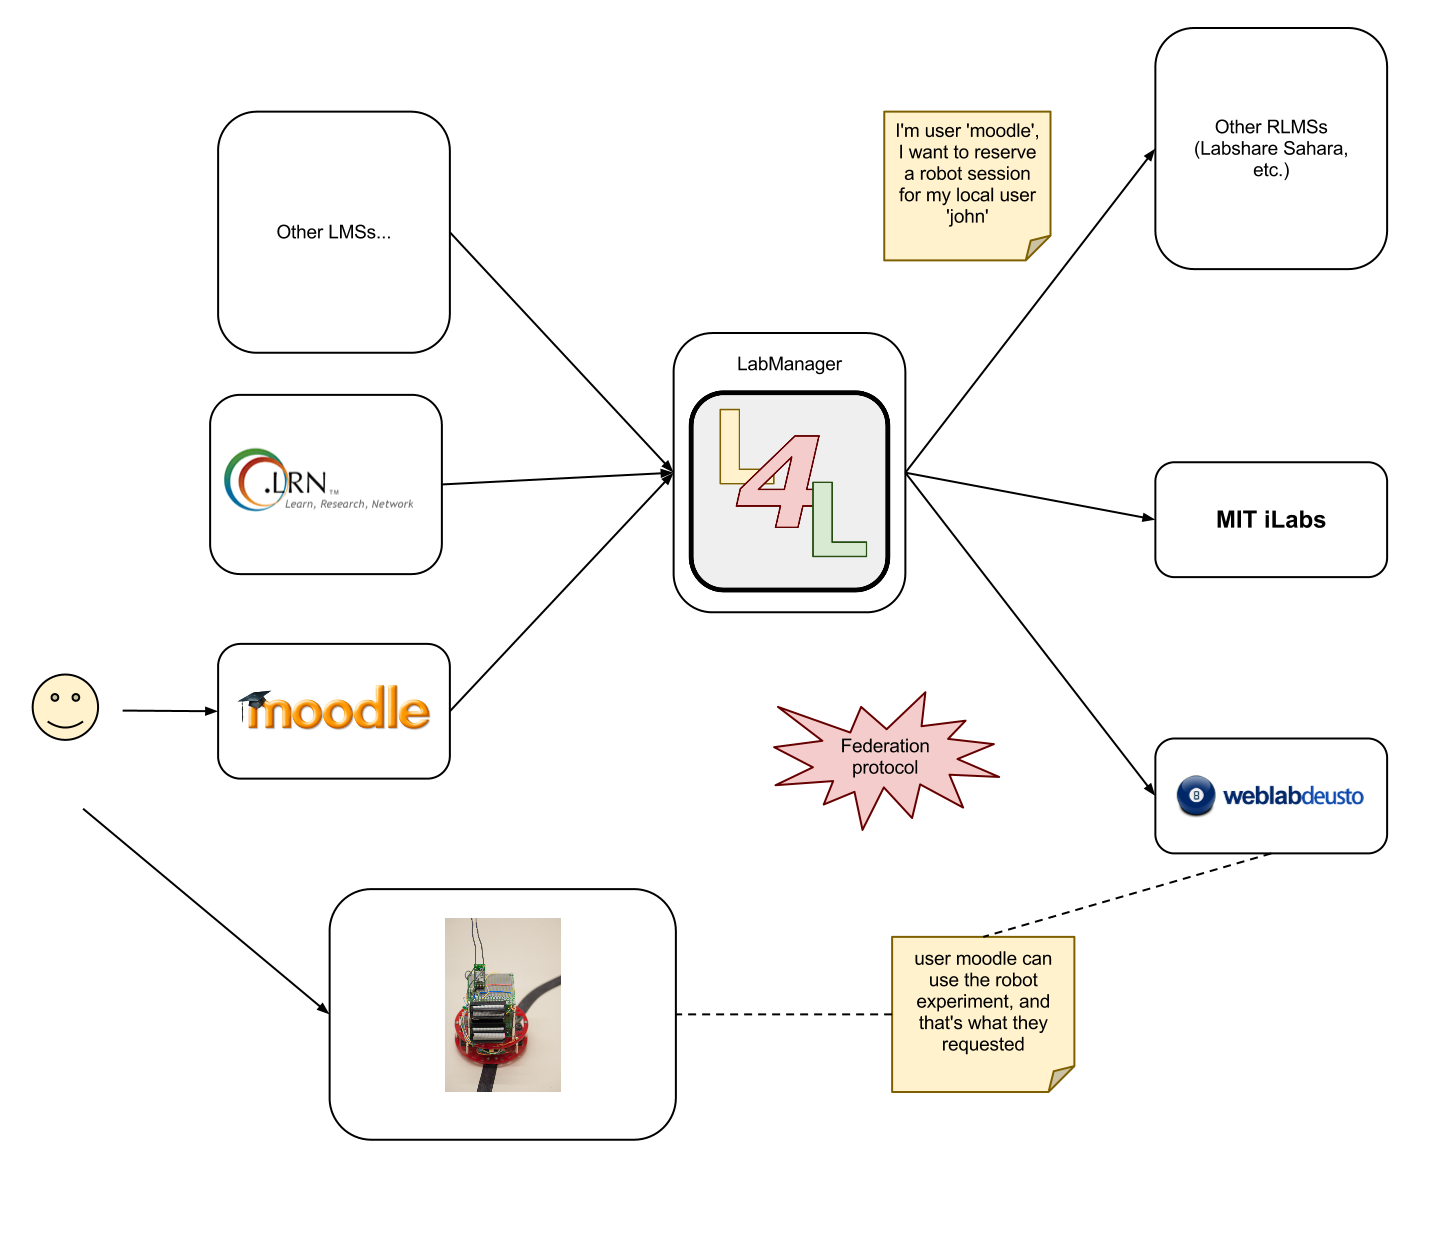
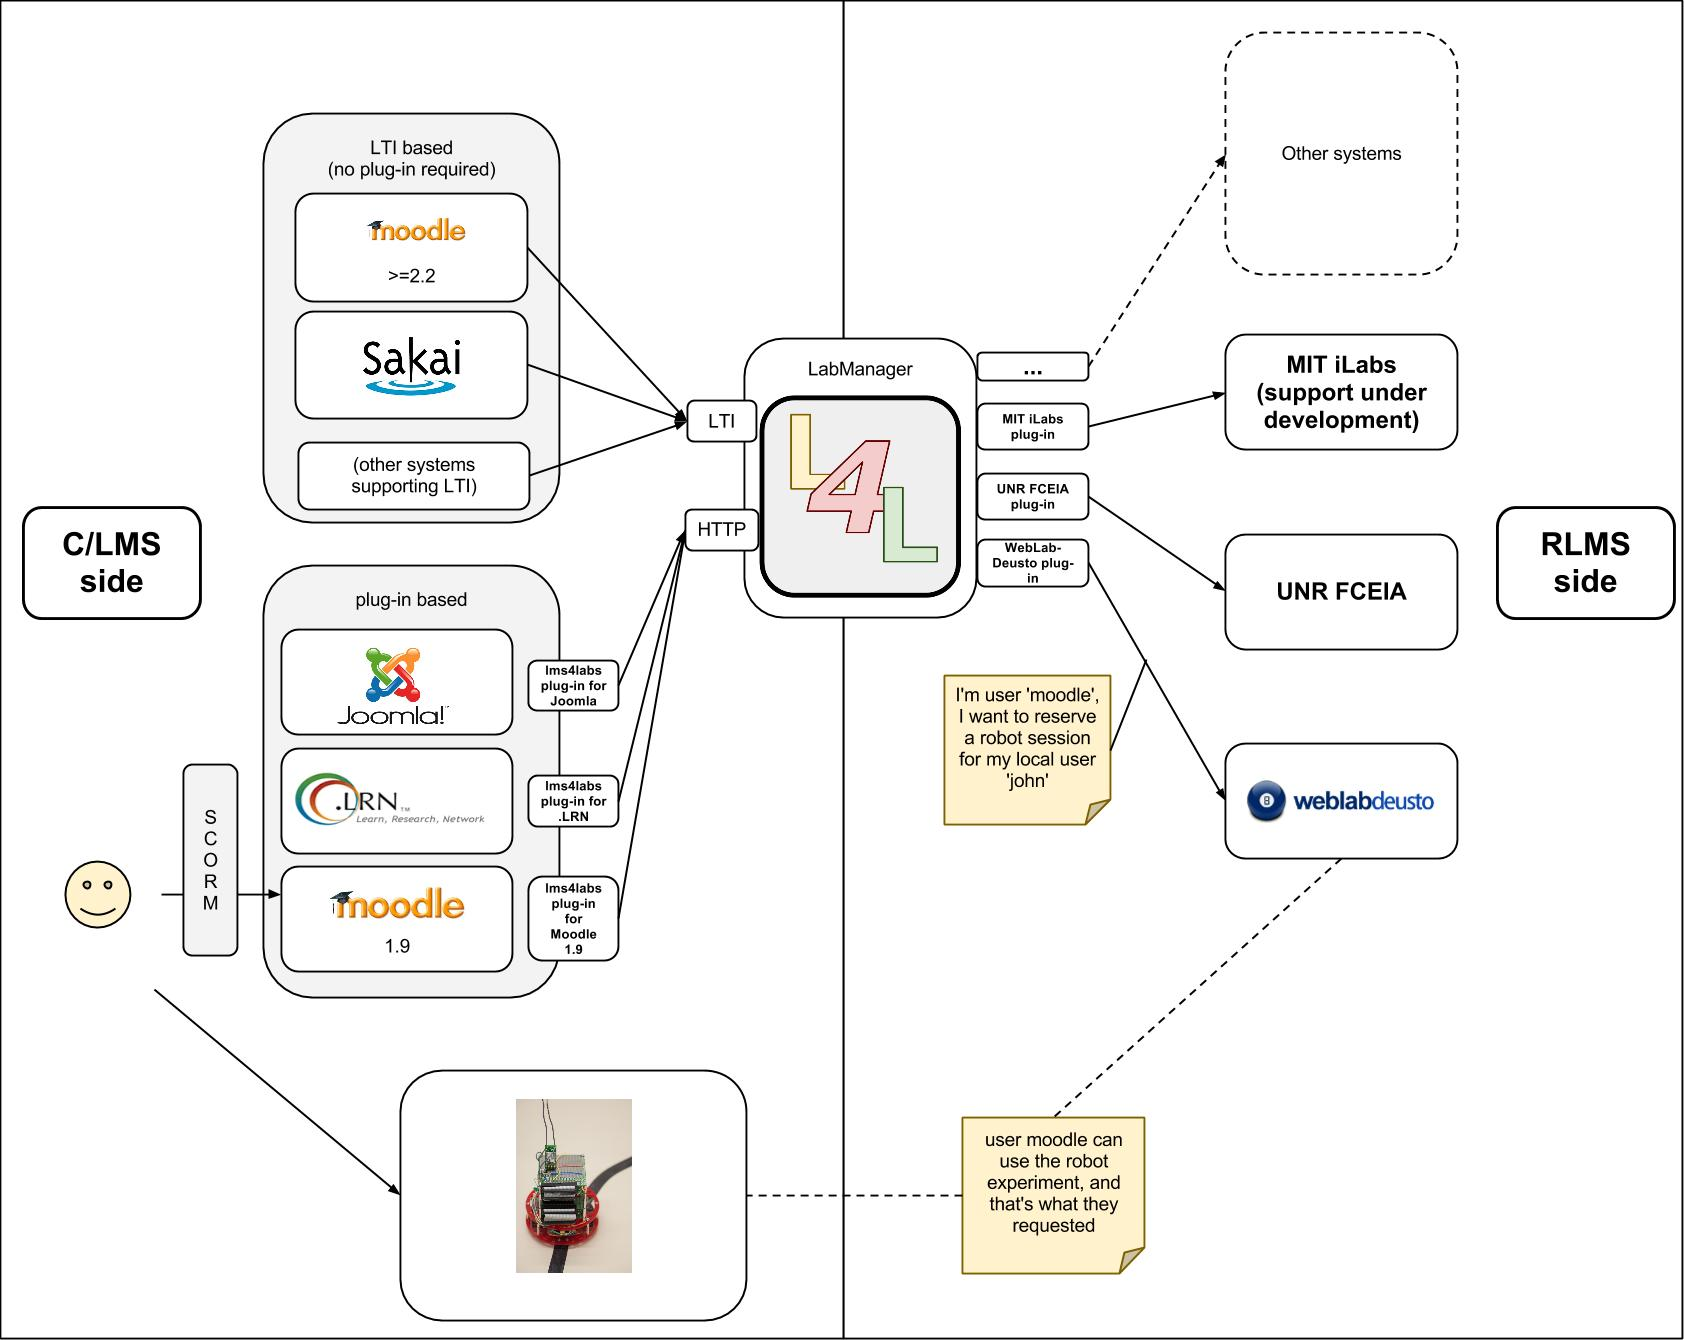
Update parts of the documentation

diff --git a/docs/source/conf.py b/docs/source/conf.py
@@ -97,7 +97,7 @@ sys.path.append(os.path.abspath('source/_themes'))
 html_theme_path = ['_themes']
 html_theme = 'sphinx-theme-okfn'
 html_theme_options = {
-        'logo_icon': '_static/logo-ball.png',
+        'logo_icon': '_static/logo-l4l.png',
         'show_okfn_logo' : False,
         'git_repo' : 'http://github.com/lms4labs/',
 #        'google_analytics_id': '',

diff --git a/docs/source/foreword.rst b/docs/source/foreword.rst
@@ -2,46 +2,51 @@ Foreword
 ========
 
 lms4labs is a pragmatic approach targeting the integration of multiple RLMSs
-(Remote Laboratory Management Systems) in different LMSs (Learning Management
-Systems). There are few principles:
+(Remote Laboratory Management Systems) in different digital learning
+environments, such as Learning Management Systems (LMSs), Content Management
+Systems (CMSs) or Personal Learning Environments (PLEs). There are few
+principles:
 
-1. Supporting a new LMS or LMS version must be simple and easy.
+1. Supporting a new LMS/CMS/PLE or LMS/CMS/PLE version must be simple and easy.
 
 2. The solution must be secure. A student should never be able to open a lab
-   session unles the LMS grants him access to it.
+   session unles the LMS/CMS/PLE grants him access to it.
 
-3. It must work with LMSs used by users, as opposed to only supporting future
-   versions of LMSs with standards not yet implemented.
+3. It must work with LMSs/CMSs/PLEs used by users, as opposed to only supporting
+   future versions of LMSs/CMSs/PLEs with standards not yet implemented.
 
-4. It must work with LMSs in a variety of situations, from universities
+4. It must work with LMSs/CMSs/PLEs in a variety of situations, from universities
    supporting Single Sign-On solutions -such as `Shibboleth
    <http://shibboleth.net/>`_- or directory protocols -such as LDAP- to
    secondary schools with almost no IT infrastructure.
 
 5. IT services of entities deploying lms4labs must be able to audit quickly
-   whatever involves the LMS.
+   whatever involves the LMS/CMS/PLE.
 
 6. It must work with multiple RLMSs, so they can collaborate towards the same
    shared goal. While some code must be RLMS-dependent, most of the code should
    be common and RLMS-independent.
 
-Given that multiple LMSs are targeted, ideally there should be no LMS dependent
-code. There are approaches that try to achieve this. However:
+Given that multiple LMSs/CMSs/PLEs are targeted, ideally there should be no
+LMS/CMS/PLE dependent code. There are approaches that try to achieve this.
+However:
 
 * Some of them do not guarantee that any malicious user can open a lab session
-  without the LMS supporting it. This is in conflict with principle number 2.
+  without the LMS/CMS/PLE supporting it. This is in conflict with principle
+  number 2.
 
-* Some of them rely on protocols not yet supported by existing LMSs, such as
-  Shibboleth or IMS LTI. This is in conflict with principles number 1 (if the LMS
-  does not support it, including it becomes complex), 3 and 4 (if the secondary
-  school does not support that protocol, the solution will not work).
-  Additionally, given that these protocols do not know what the LMS itself
-  states, certain common situations are not covered. For instance, instructors may
-  want to establish which weeks lab sessions are available and which ones are
-  not.
+* Some of them rely on protocols not yet supported by existing LMSs/PLEs/CMSs,
+  such as relying exclusively on Shibboleth or IMS LTI. This is in conflict with
+  principles number 1 (if the LMS/CMS/PLE does not support it, including it becomes
+  complex), 3 and 4 (if the secondary school does not support that protocol, the
+  solution will not work).  Additionally, given that these protocols do not know
+  what the LMS/CMS/PLE itself states, certain common situations are not covered. For
+  instance, instructors may want to establish which weeks lab sessions are
+  available and which ones are not.
 
-Therefore, we accept that there is some LMS-dependent code as the lesser of two
-evils. However, so as to support the principles mentioned above, this code:
+Therefore, we accept that there is some LMS/CMS/PEL-dependent code as the lesser
+of two evils, and only if it is required. However, so as to support the
+principles mentioned above, this code:
 
 * Should be as small and simple as possible: IT services must be able to audit
   it quickly.

diff --git a/docs/source/design.rst b/docs/source/design.rst
@@ -19,12 +19,18 @@ The LabManager administrator will interact with the remote laboratory
 administrators to make sure that they are connected to the LabManager. He will
 also sign up different Learning Management Systems from different entities.
 
-The LMS administrator will integrate the LMS with a LabManager. In the
-LabManager, it will select which laboratories are available for each course. It
-will download SCORM objects that he will give to teachers.
-
-Finally, teachers will upload SCORM objects to their courses, where all students
-using that course will be able to use the laboratory.
+The LMS administrator will manage from the LMS to students. There are two
+versions at this moment:
+* When using LTI, the LMS administrator will create teacher users in the LabManager,
+  and assign them permissions on laboratories. Teachers will use these
+  permissions (which contain a key and a secret unique for each teacher and
+  laboratory) to add those labs to their courses. Students of those courses will
+  automatically be able to use these laboratories.
+* When using Basic HTTP, the LMS administrator will query courses in the
+  LMS/CMS/PLE, and they will assign permissions to those courses. From that
+  point, teachers will be able to upload SCORM objects refering to those courses
+  and upload them to the LMS/CMS/PLE. From that point, students of those courses
+  will be able to use them.
 
 Architecture overview
 ~~~~~~~~~~~~~~~~~~~~~
@@ -35,8 +41,9 @@ Architecture overview
 
 As described in the figure above, there are three main components involved:
 
-#. The LMS, which will have a small plug-in that communicates with the
-   LabManager.
+#. The LMS/CMS/PLE (left side). If it supports IMS LTI, it will use it and no
+   code will be required in the LMS/CMS/PLE. If it does not support it, it will
+   have a small plug-in that communicates with the LabManager.
 
 #. The LabManager, which will receive requests from multiple, different LMSs and
    it will understand the protocols of different RLMSs. It does not have any
@@ -47,10 +54,11 @@ As described in the figure above, there are three main components involved:
    different. It should not require anything special for being supported by the
    LabManager.
 
-This way, if a new LMS is aimed, a new plug-in for that LMS is required in the
+This way, if a new LMS/CMS/PLE is aimed, if it supports IMS LTI the support is
+automatic. If it does not support it, a new plug-in for that LMS is required in the
 LMS, but it has no impact on the rest of the RLMSs neither on the LabManager. If
 a new RLMS is aimed, a new plug-in for that RLMS is required in the LabManager,
-but it has no impact on the LMSs.
+but it has no impact on the LMSs/CMSs/PLEs.
 
 .. 
     Let's detail a typical scenario. *University A* uses Moodle (LMS), WebLab-Deusto
@@ -168,7 +176,7 @@ but it has no impact on the LMSs.
 LMS to LabManager protocol
 ~~~~~~~~~~~~~~~~~~~~~~~~~~
 
-Sample reservation request::
+This only applies when the non IMS LTI version is targeted. Sample reservation request::
 
     POST /lms4labs/labmanager/requests/ HTTP/1.0
     Authorization: Basic ASDFASDF (LMS token)

diff --git a/docs/source/installation.rst b/docs/source/installation.rst
@@ -1,11 +1,12 @@
 .. _toctree-directive:
 
+
 Installation
 ============
 
 Within the lms4labs project, two main components need to be installed:
  * The LabManager, which is the software system 
- * The LMS plug-in (see the Usage section of Moodle for Moodle)
+ * The LMS plug-in (only if a LMS that does not support LTI is installed)
 
 Cardinality:
  * There should be a LabManager representing each university or secondary
@@ -189,8 +190,8 @@ application.
 First of all, download the source code of the lms4labs project and go to the
 labmanager code::
 
-    $ git clone https://github.com/porduna/lms4labs/
-    $ cd lms4labs/labmanager
+    $ git clone https://github.com/lms4labs/labmanager/
+    $ cd labmanager
 
 Then, create an environment called *env* in the same directory where the
 labmanager is installed, and activate it::
@@ -289,17 +290,17 @@ documented `here
 is installed in Apache, the following configuration may work::
 
     WSGIDaemonProcess labmanager user=weblab group=weblab threads=5 python-path=/PATH/TO/ENV/lib/pythonVERSION/site-packages/
-    WSGIScriptAlias /lms4labs /PATH/TO/lms4labs/labmanager/run_wsgi.wsgi
+    WSGIScriptAlias /labmanager /PATH/TO/labmanager/run_wsgi.wsgi
     WSGIRestrictStdout Off
     WSGIPassAuthorization On
 
-    <Directory /PATH/TO/lms4labs/labmanager/>
+    <Directory /PATH/TO/labmanager/>
         WSGIProcessGroup labmanager
         WSGIApplicationGroup %{GLOBAL}
         Order deny,allow
         Allow from all
     </Directory>
 
-Being /PATH/TO/lms4labs/ the lms4labs root project. Additionally, you will need
+Being /PATH/TO/labmanager/ the labmanager root project. Additionally, you will need
 to modify the *run_wsgi.wsgi* script to change the project directory.
 
